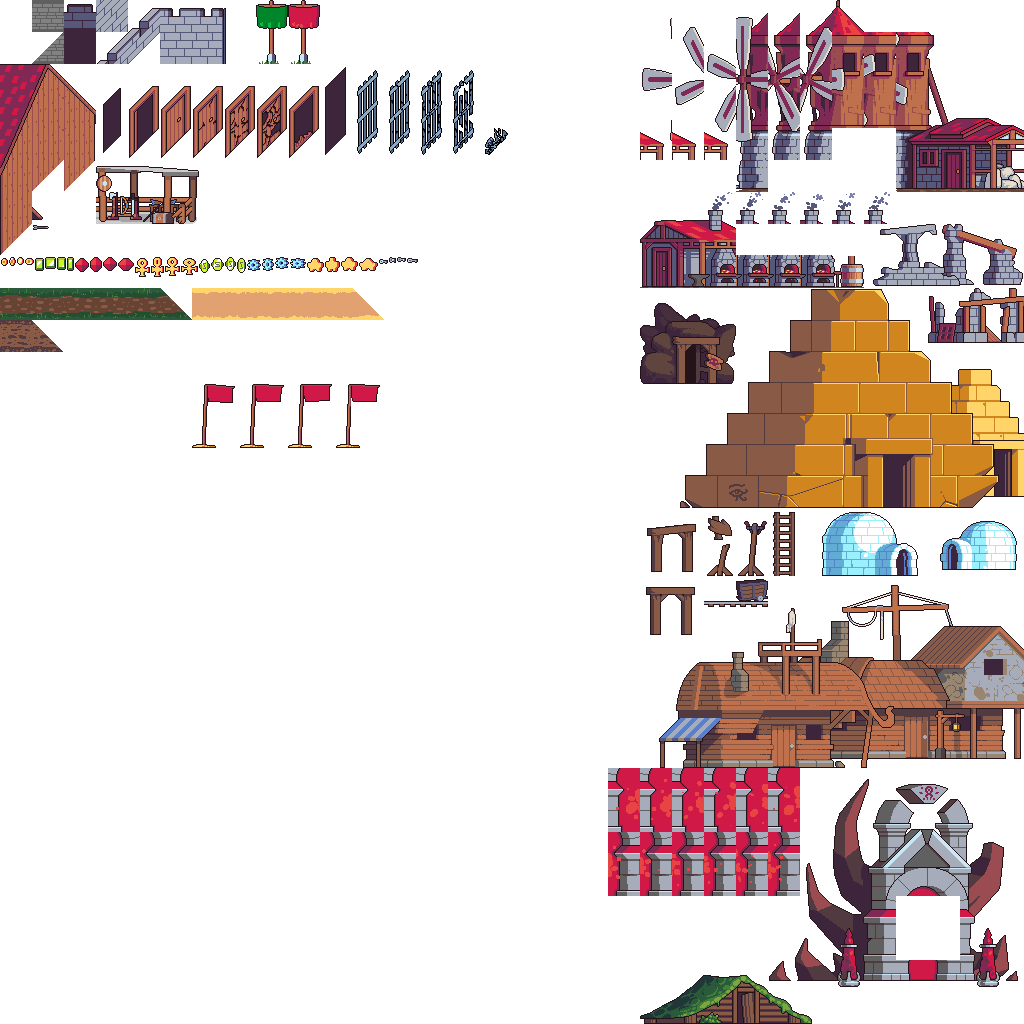
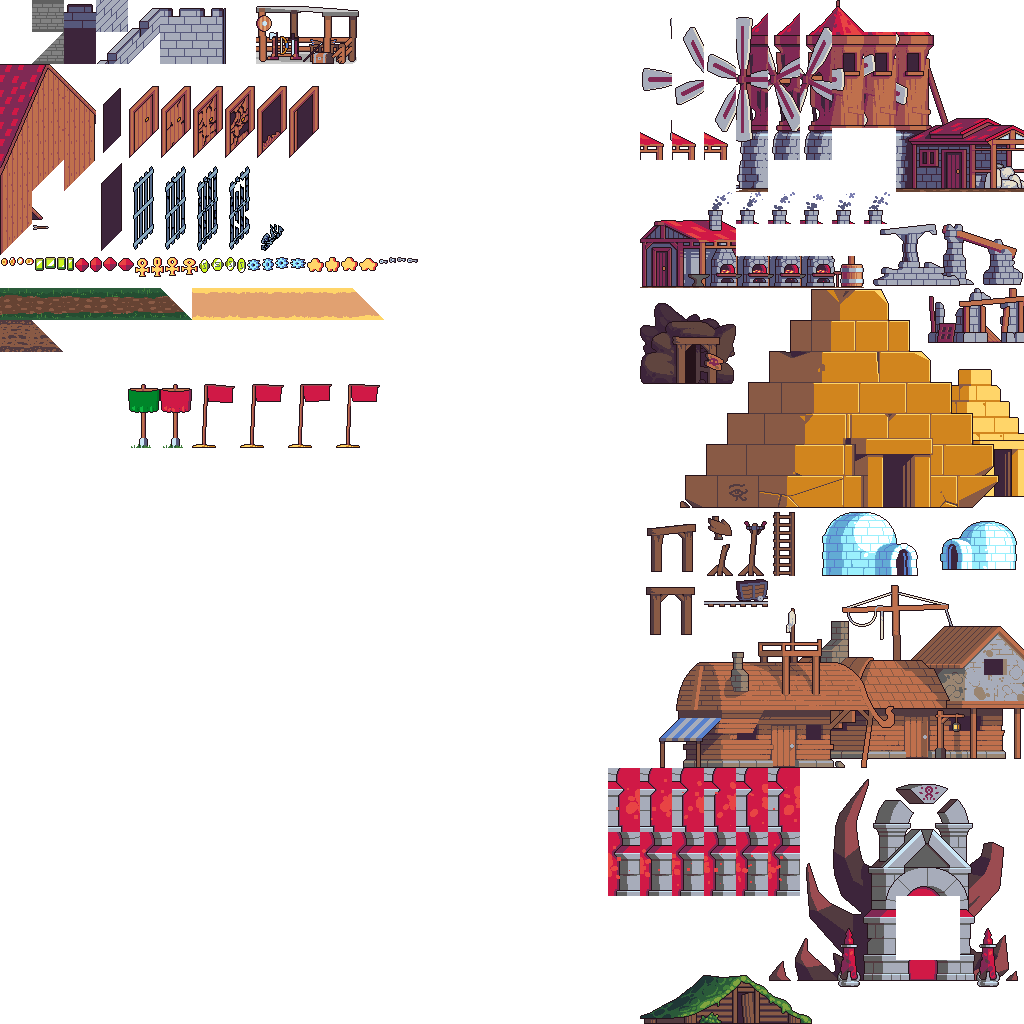
Decor rearrangements; Layers adjustments

Changed region(s): [[0.2188, 0.0, 0.5, 0.1562], [0.0938, 0.0938, 0.2812, 0.25], [0.125, 0.375, 0.1875, 0.4375]]

diff --git a/game/scene.go b/game/scene.go
@@ -26,15 +26,21 @@ const ( // layer tilemaps
 	LayerFortBack3
 	LayerFortFront3
 
-	LayerField
+	LayerFieldGround
 	LayerFieldNoBase
 	LayerFieldBuildings
-	LayerDesert
+	LayerDesertGround
 	LayerDesertNoBase
 	LayerDesertBuildings
 
-	LayerFlags
-	LayerGrid
+	LayerRuinsBuildings
+	LayerCaveBuildings
+	LayerMineBuildings
+	LayerGlacierBuildings
+	LayerDocksBuildings
+	LayerSwampBuildings
+	LayerHellBuildings
+
 	LayerCount
 )
 
@@ -64,7 +70,7 @@ const TileSize, MapCount = 32, 4
 
 var TimeScale float32 = 1
 var View graphics.View
-var Background, Map, MapNoBase, MapBuildings, Grid, Flags *graphics.Object
+var Background, MapGround, MapNoBase, MapBuildings *graphics.Object
 var Decor, UserInterface assets.AtlasId
 var Layers [LayerCount]assets.TileLayerId
 
@@ -120,16 +126,13 @@ func InitScene() {
 	mirrorGarrisonLanes()
 
 	var bgr = graphics.NewSprite(0, 0, 1, assets.LoadImage("data/environments/background-glacier.png"))
-	var _map, mapNoBase = graphics.NewTilemap(layers[LayerField]), graphics.NewTilemap(layers[LayerFieldNoBase])
+	var _map, mapNoBase = graphics.NewTilemap(layers[LayerFieldGround]), graphics.NewTilemap(layers[LayerFieldNoBase])
 	var mapBuildings = graphics.NewTilemap(layers[LayerFieldBuildings])
-	Background, Map, MapNoBase, MapBuildings = &bgr, &_map, &mapNoBase, &mapBuildings
-
-	var flag, grid = graphics.NewTilemap(layers[LayerFlags]), graphics.NewTilemap(layers[LayerGrid])
-	Flags, Grid = &flag, &grid
+	Background, MapGround, MapNoBase, MapBuildings = &bgr, &_map, &mapNoBase, &mapBuildings
 
 	AllyBase = NewBase(TeamAlly, SaveState{
-		Kind: BaseCamp, Garrison: Garrison3, EntranceKinds: [3]EntranceKind{
-			EntranceNone, EntranceNone, EntranceNone,
+		Kind: BaseFortress, Garrison: Garrison3, EntranceKinds: [3]EntranceKind{
+			EntranceDoor, EntranceShortGate, EntranceTallGate,
 		},
 	})
 	EnemyBase = NewBase(TeamEnemy, SaveState{
@@ -138,7 +141,9 @@ func InitScene() {
 		},
 	})
 
-	// Units = append(Units, NewUnit(CharWoman, TeamAlly, LaneUpperOff))
+	Units = append(Units, NewUnit(CharWoman, TeamAlly, LaneUpper))
+	Units = append(Units, NewUnit(CharWoman, TeamAlly, LaneMiddle))
+	Units = append(Units, NewUnit(CharWoman, TeamAlly, LaneLower))
 	// Units = append(Units, NewUnit(CharWoman, TeamEnemy, LaneUpperOff))
 	// Units = append(Units, NewUnit(CharMan, TeamAlly, LaneUpper))
 	// Units = append(Units, NewUnit(CharHunter, TeamAlly, LaneLower))
@@ -173,10 +178,6 @@ func UpdateScene() {
 	AllyBase.UpdateBack()
 	EnemyBase.UpdateBack()
 
-	View.DrawObject(Flags)
-	AllyBase.UpdateMiddle()
-	EnemyBase.UpdateMiddle()
-
 	iterateRemovable(&AllyBase.Entrances, func(e *Entrance) { e.Update() })
 	iterateRemovable(&EnemyBase.Entrances, func(e *Entrance) { e.Update() })
 
@@ -188,7 +189,11 @@ func UpdateScene() {
 		MapNoBase.Width = -number.Absolute(MapNoBase.Width)
 		View.DrawObject(MapNoBase)
 	}
-	View.DrawObject(Map)
+
+	View.DrawObject(MapGround)
+
+	AllyBase.UpdateMiddle()
+	EnemyBase.UpdateMiddle()
 
 	iterateRemovable(&ProjectilesBehind, func(p *Projectile) { p.Update() })
 	iterateRemovable(&Pickups, func(p *Pickup) { p.Update() })
@@ -218,13 +223,13 @@ func UpdateScene() {
 }
 
 func PointAtCell(cellX, cellY float32) (x, y float32) {
-	var tw, th = Layers[LayerGrid].TileSize()
-	var cols, rows = Layers[LayerGrid].Size()
+	var tw, th = Layers[LayerCamp].TileSize()
+	var cols, rows = Layers[LayerCamp].Size()
 	return (cellX-float32(cols)/2)*tw + (tw / 2), (cellY-float32(rows)/2)*th + (th / 2)
 }
 func CellAtPoint(x, y float32) (cellX, cellY float32) {
-	var tw, th = Layers[LayerGrid].TileSize()
-	var cols, rows = Layers[LayerGrid].Size()
+	var tw, th = Layers[LayerCamp].TileSize()
+	var cols, rows = Layers[LayerCamp].Size()
 	return x/tw + float32(cols)/2, y/th + float32(rows)/2
 }
 func TileAtCell(cellX, cellY int, layer assets.TileLayerId) assets.Tile {

diff --git a/game/base.go b/game/base.go
@@ -42,7 +42,7 @@ func NewBase(team Team, saveState SaveState) Base {
 	if team == TeamAlly {
 		ptsX, ptsY = PointAtCell(3, 5)
 	}
-	var label = graphics.NewTextbox(ptsX+Flags.X, ptsY+Flags.Y, TileSize, TileSize, 0)
+	var label = graphics.NewTextbox(ptsX, ptsY, TileSize, TileSize, 0)
 	label.Effects.FillColor, label.Effects.TextLineHeight = 0, 11
 	label.Effects.TextAlignX, label.Effects.TextAlignY = 0.5, 0.5
 	label.Effects.TextShadowColor, label.Effects.TextShadowWeight = 0, 0

diff --git a/game/debug.go b/game/debug.go
@@ -47,8 +47,9 @@ func UpdateDebug() {
 	case DebugOff:
 		View.DrawDebugInfo(false)
 	case DebugGame:
-		Grid.Effects.Tint = color.RGBA(0, 0, 0, 50)
-		View.DrawObject(Grid)
+		View.DrawGrid(1, TileSize, TileSize, color.RGBA(0, 0, 0, 100))
+		View.DrawGrid(1, TileSize*100, TileSize*100, palette.Black)
+		// View.DrawObject(Grid)
 		View.DrawDebugInfo(false)
 		for _, u := range Units {
 			View.DrawShape(u.X, u.Y, u.Width, u.Height, 0, 0, DebugUnitColor, geometry.Area{})

diff --git a/game/entrance.go b/game/entrance.go
@@ -121,7 +121,7 @@ func (e *Entrance) Update() {
 		var breakIndex = number.Map(e.Health, 0, e.MaxHealth, 5, 1)
 		var isOpen = e.IsOpen()
 		if isOpen {
-			breakIndex = 0
+			breakIndex = 6
 		}
 
 		if condition.JustTurnedTrue(isOpen, int(e.Tiles[0].X)) {
